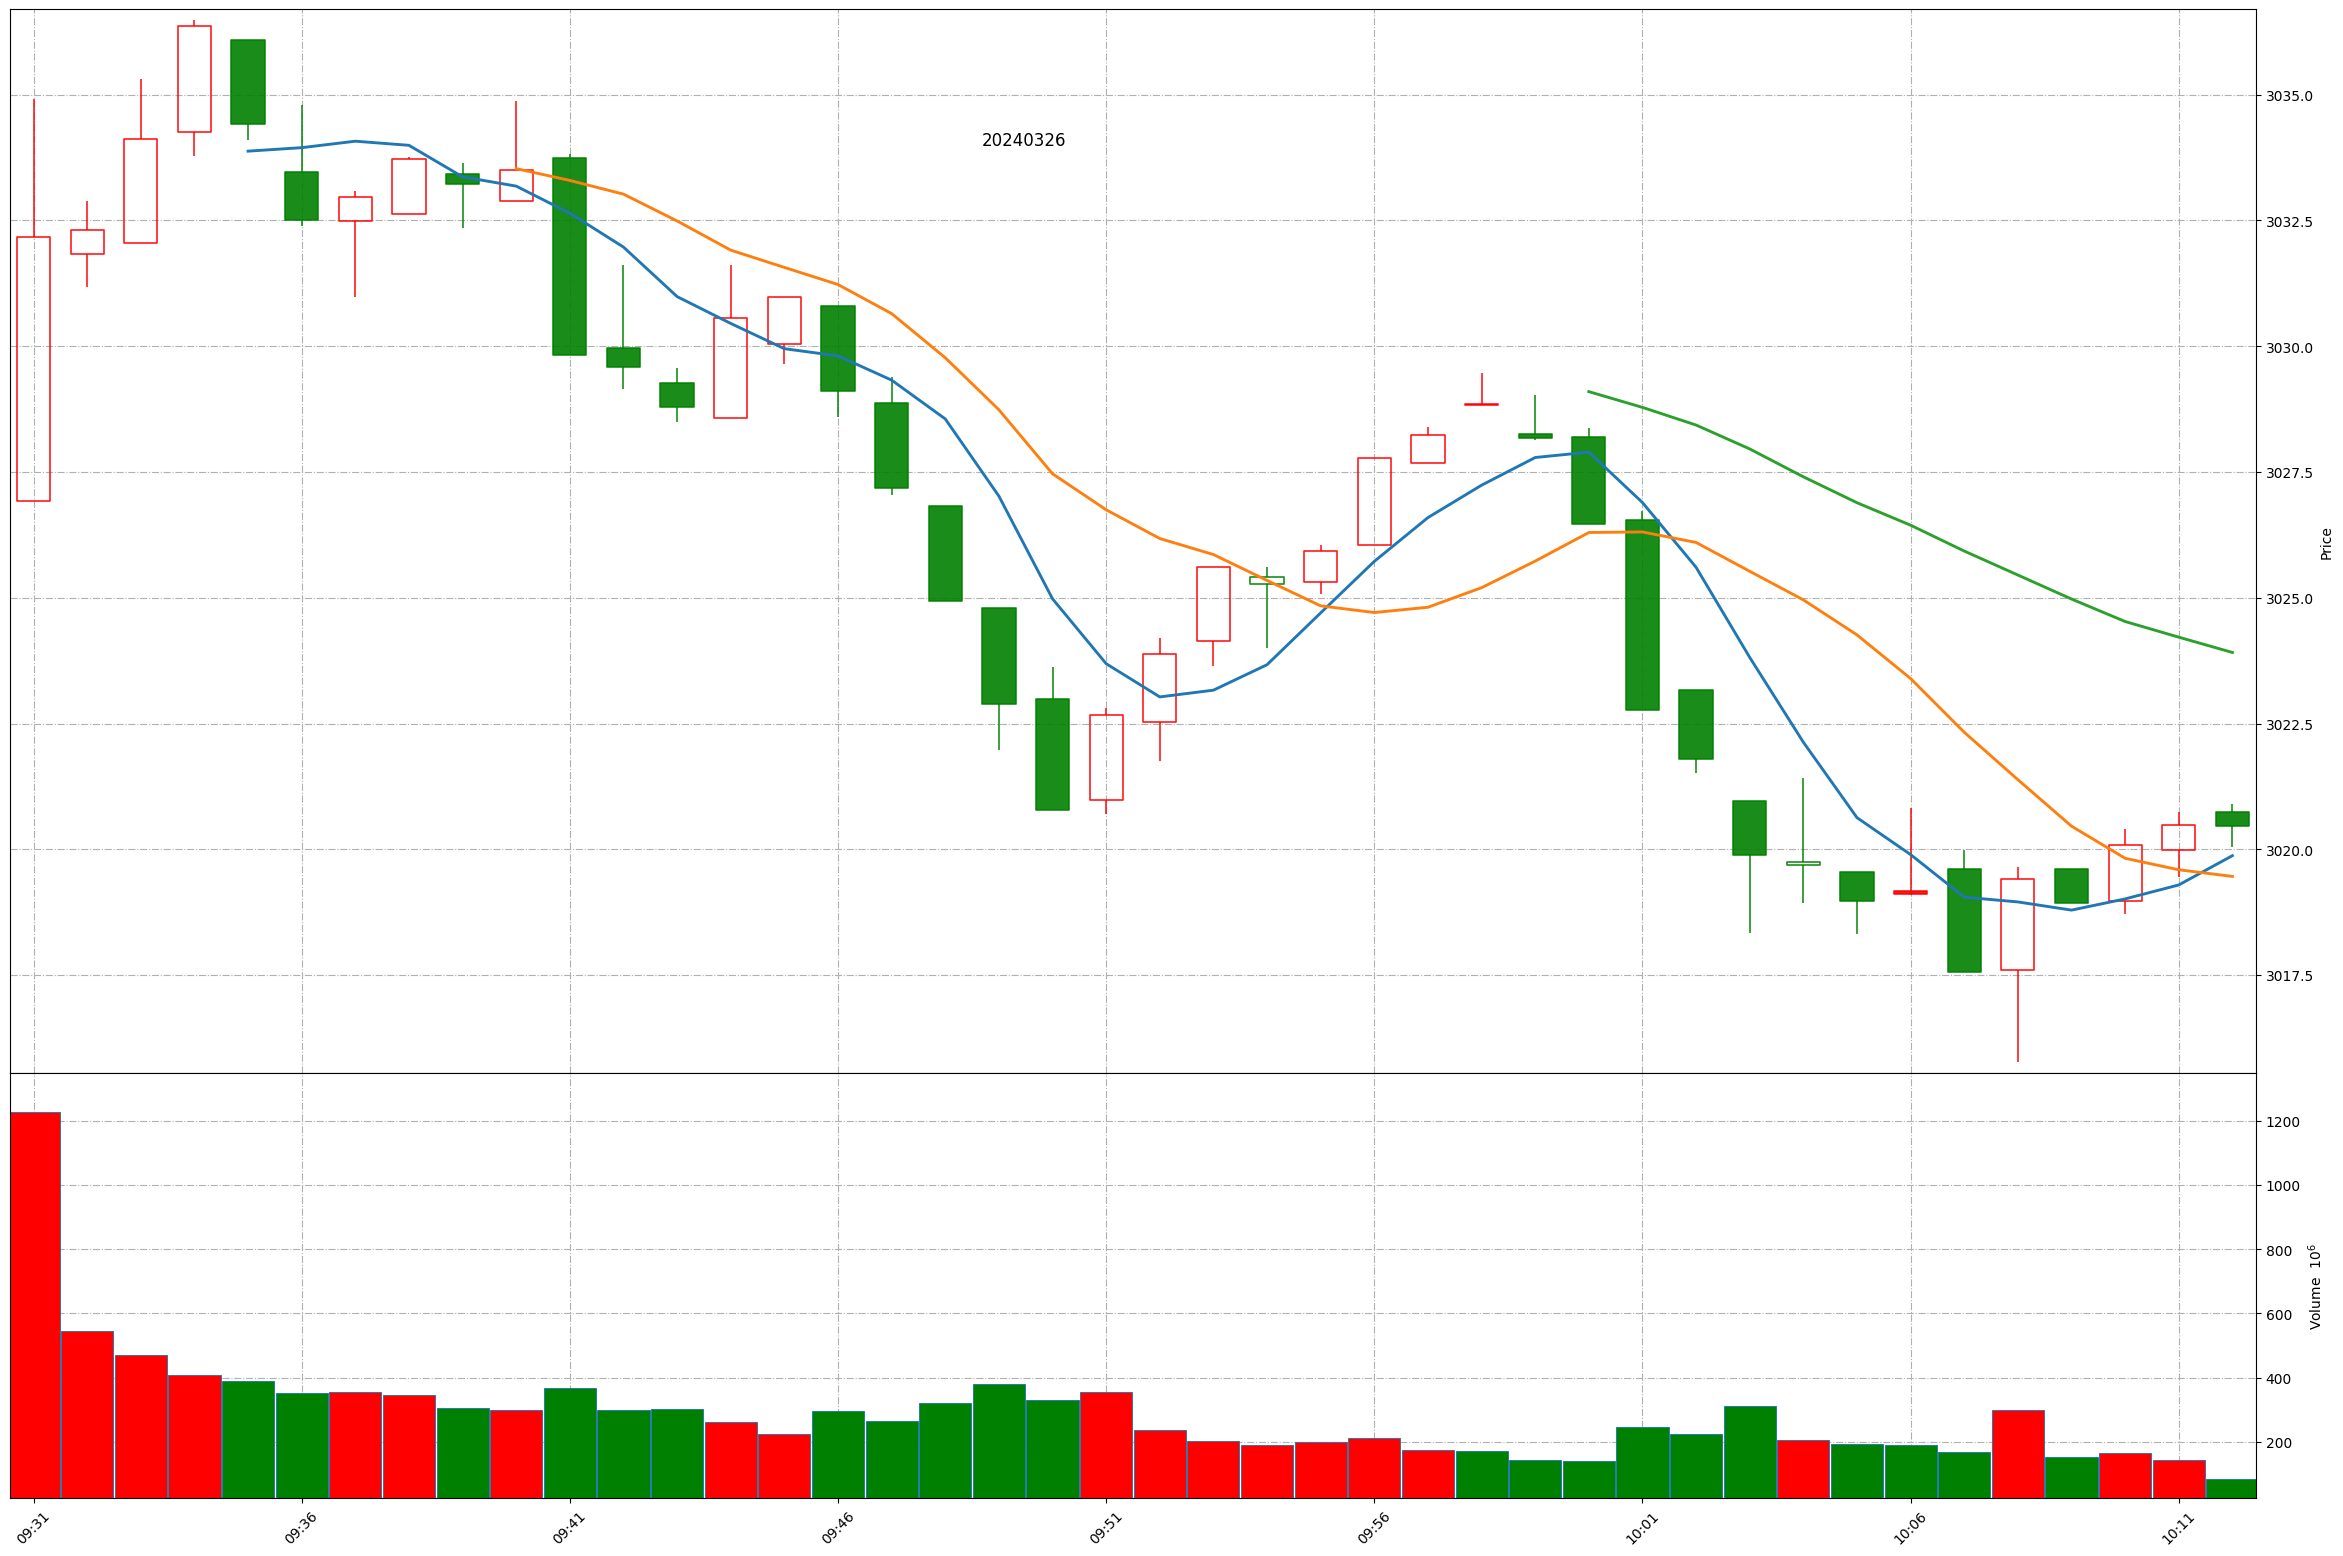
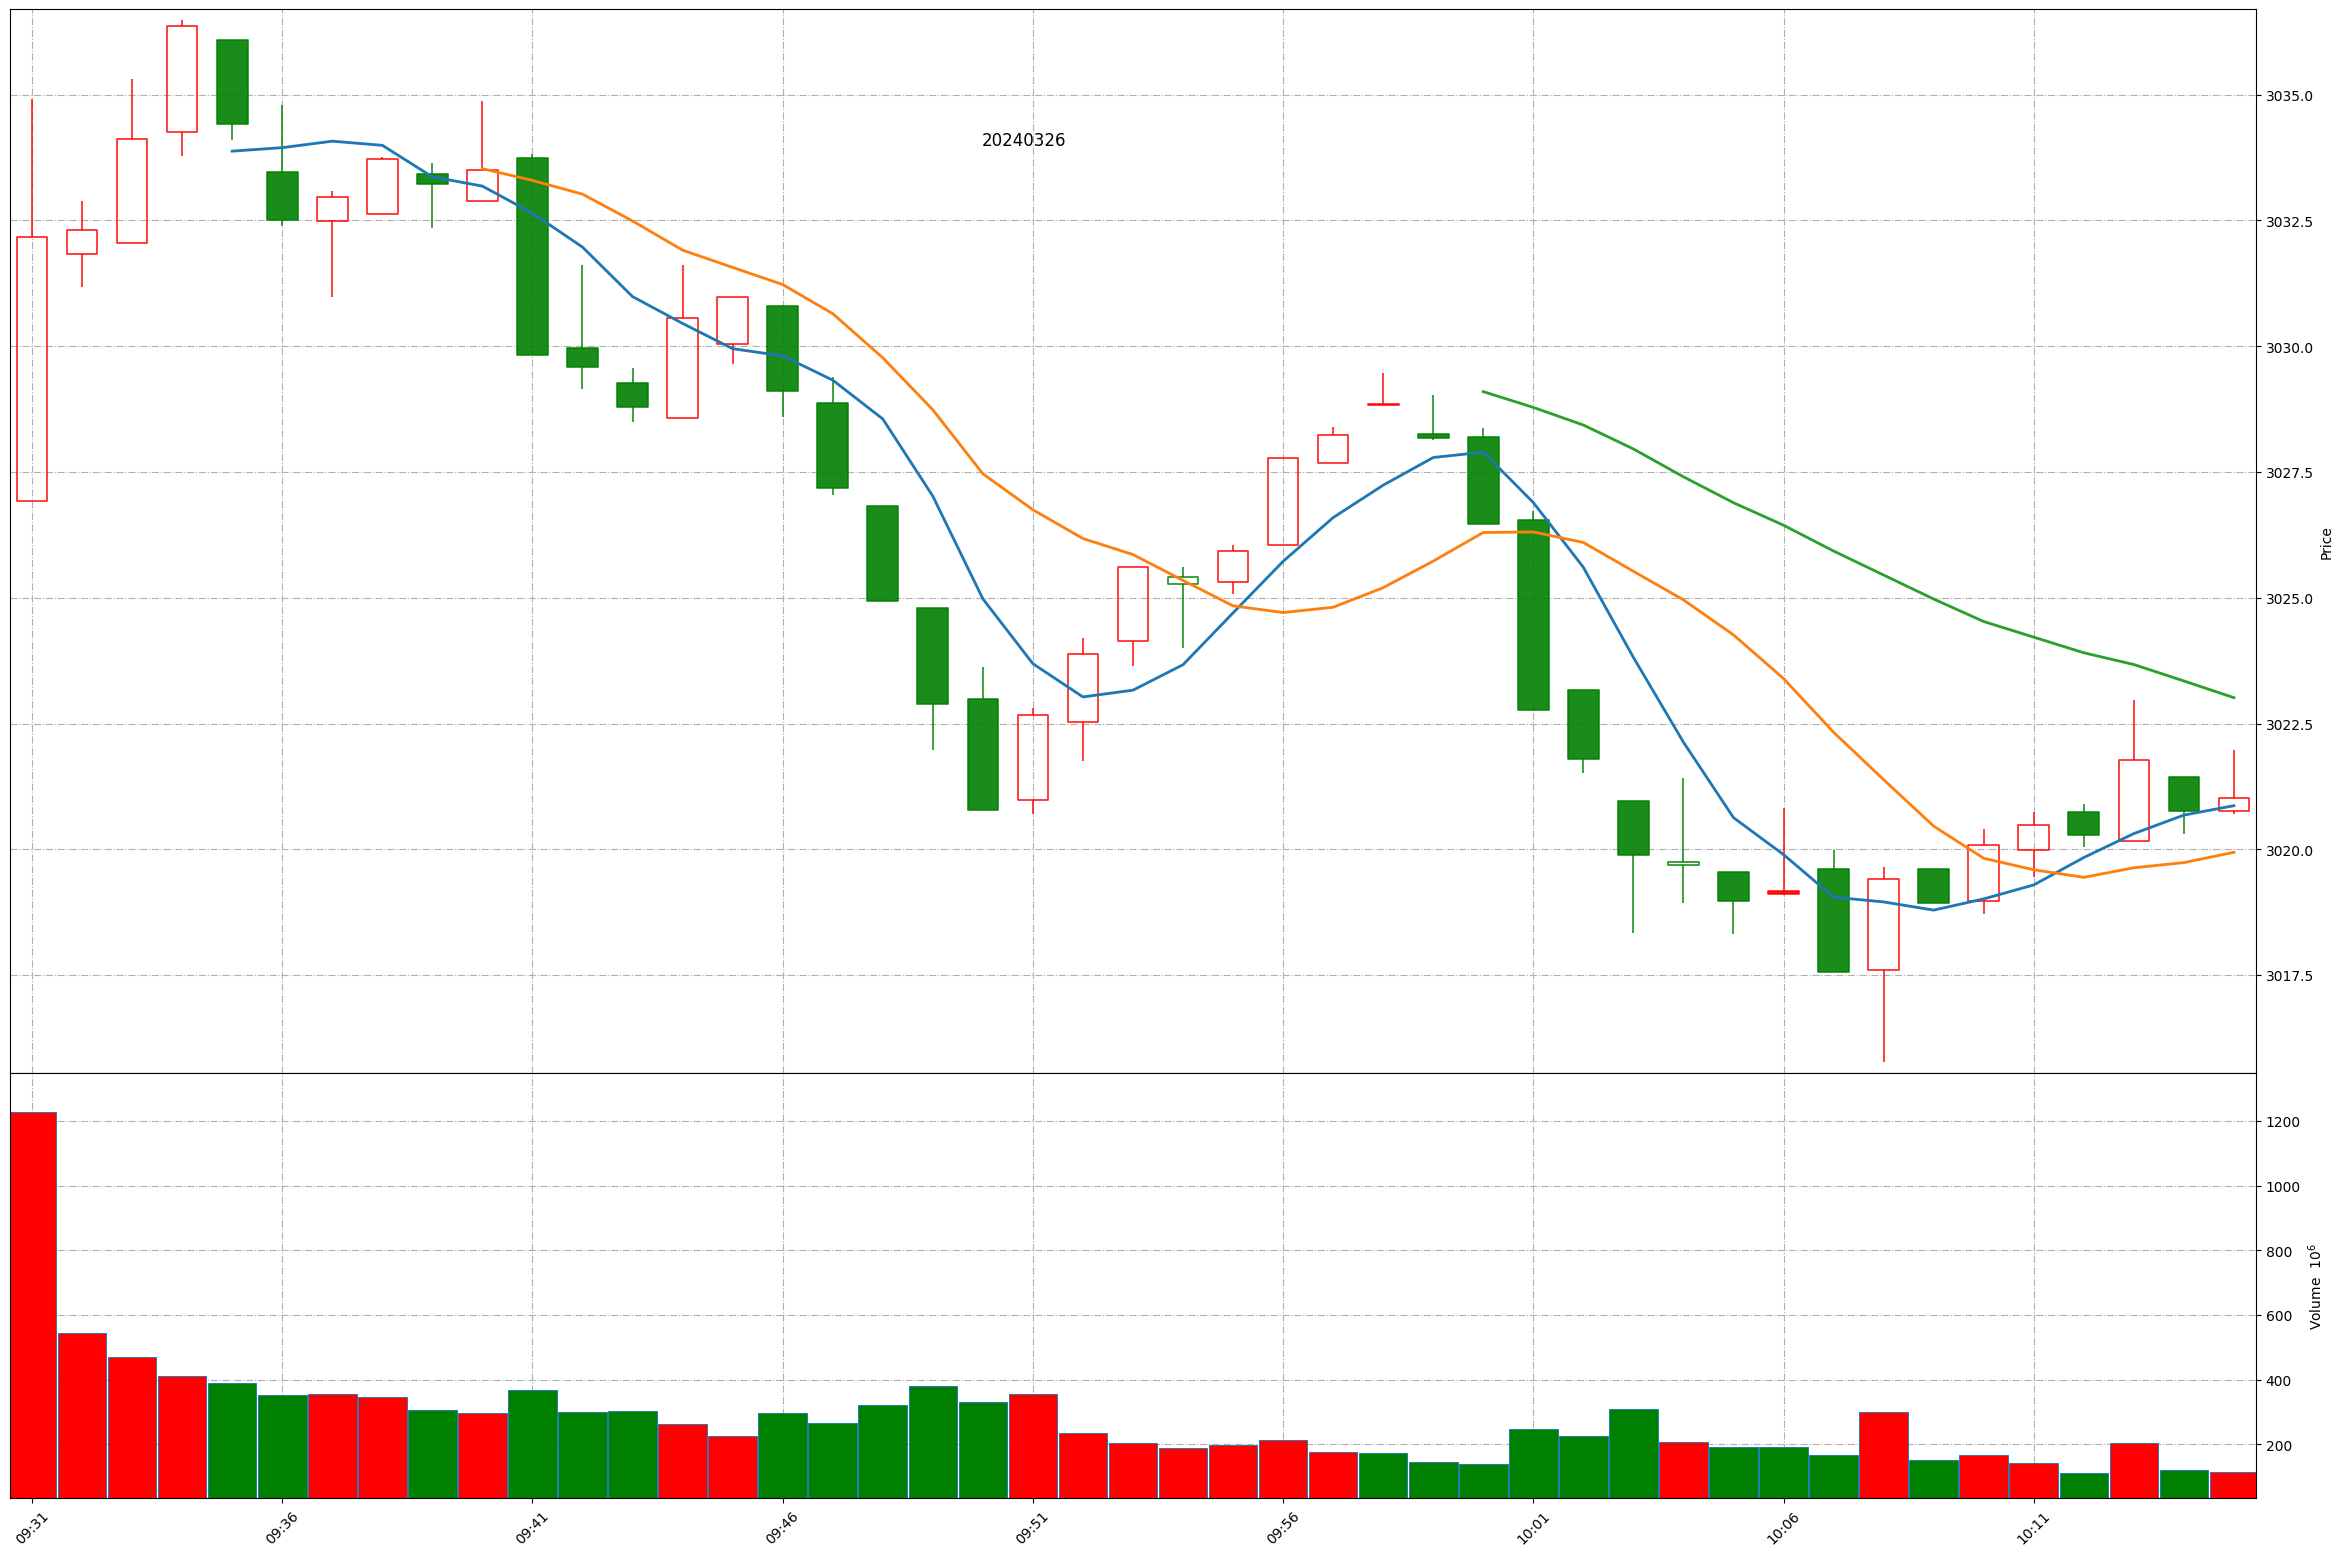
Github action update at 2024-03-26 10:15:14.

diff --git a/README.md b/README.md
@@ -1,11 +1,11 @@
 
 # Daily-A-share-market-quotes 每日 A 股指数（5min 更新）- 20240326
 
-### 上证指数 20240326 10:12
+### 上证指数 20240326 10:15
 ![](./fig/2024/3/20240326-sh000001.png)
 
-### 深证成指 20240326 10:12
+### 深证成指 20240326 10:15
 ![](./fig/2024/3/20240326-sz399001.png)
 
-### 北证50 20240326 10:12
+### 北证50 20240326 10:15
 ![](./fig/2024/3/20240326-bj899050.png)
